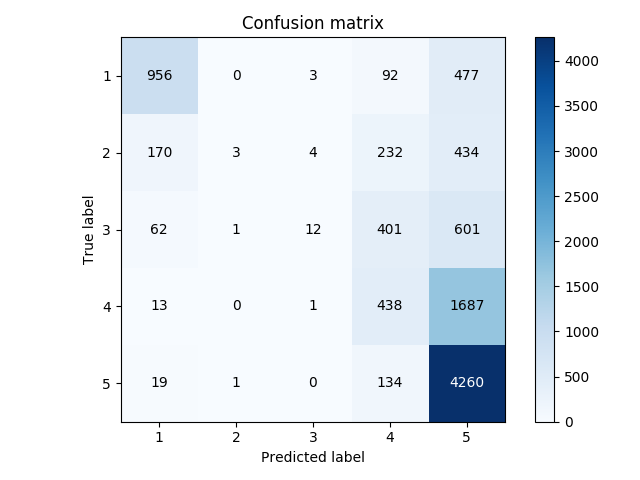
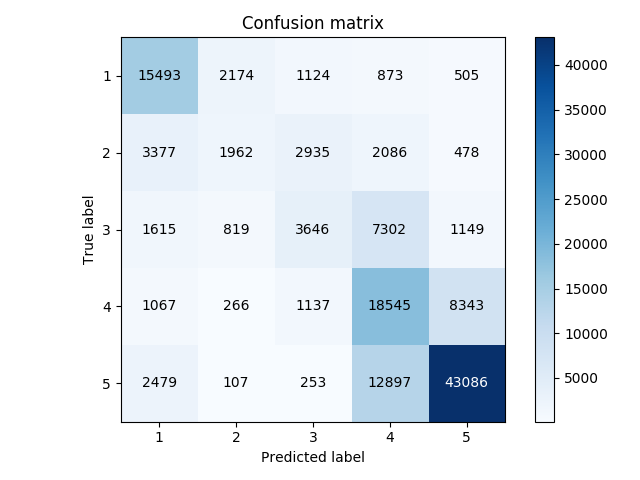
bugs fixed in Naive Bayes

diff --git a/Naive Bayes/Naive_Bayes.py b/Naive Bayes/Naive_Bayes.py
@@ -11,16 +11,17 @@ matplotlib.use('Agg')
 import numpy as np
 import matplotlib.pyplot as plt
 import math
+from random import randint
 from matplotlib import cm
 from utils import *
 from sklearn import svm, datasets
 from sklearn.model_selection import train_test_split
 from sklearn.metrics import confusion_matrix
 from sklearn.utils.multiclass import unique_labels
-from sklearn.metrics import classification_report
+from sklearn.metrics import f1_score
 
 # Hyper parameters
-tokenize_type = 3
+tokenize_type = 2
 
 # Global constants
 categories = 5
@@ -30,6 +31,7 @@ Denom = [0.0, 0.0, 0.0, 0.0, 0.0]
 # Parameters
 Phi = [0, 0, 0, 0, 0] # For y : 1 to 5
 Theta = np.empty((dicts, categories)) # 
+majority_class = 0
 
 def bigrams(lst):
     result = []
@@ -74,15 +76,17 @@ def generate_vocab():
                 output.append(word)
                 seen.add(word)
         counter+= 1
-        if counter == limit: break
+        # if counter == limit: break
     return (dict(zip(output, np.arange(0, len(output), 1))), inputs)
 
 def train(vocab, inputs):
     # Initialization
+    global majority_class
     Phi = [0.0, 0.0, 0.0, 0.0, 0.0] # For y : 1 to 5
     Theta = np.empty((dicts, categories)) # 
     Denom = [0.0, 0.0, 0.0, 0.0, 0.0]
     M = 0 # Number of training examples
+    counts = np.zeros(5)
     for i in range(dicts):
 	    for j in range(categories):
 		    Theta[i][j] = 0
@@ -90,11 +94,12 @@ def train(vocab, inputs):
     for inp in inputs:
         M += 1
         c = int(inp["stars"])
-        Phi[c-1] += 1
+        Phi[c-1] += 1; counts[c-1] += 1
         for word in tokenize(inp["text"]):
             k = vocab[word]
             Theta[k][c-1] += 1            
             Denom[c-1] += 1
+    majority_class = counts.argmax() + 1
     
     for i in range(categories):
         Phi[i] = np.log2(Phi[i]) #(Phi[i]+1)/(M+5)
@@ -106,7 +111,7 @@ def train(vocab, inputs):
 
 def theta_k_c(token, category):
     try: return Theta[vocab[token]][category]
-    except: return 1.0 / (dicts + Denom[category])
+    except: return np.log2(1.0 / (dicts + Denom[category]))
     
 def classify(text):
     probs = np.zeros(5)
@@ -117,18 +122,19 @@ def classify(text):
         probs[c] += Phi[c]
     return probs.argmax() + 1
 
-def test(filename, Phi, Theta):
+def test(filename, Phi, Theta, option=1):
     correct = 0
     count = 0
     actual_ys = []; predicted_ys = []
+    if tokenize_type == 3: correct += 500
     for view in json_reader(filename):
         count += 1
         actual_y = int(view["stars"])
-        precited_y = classify(view["text"])
-        actual_ys.append(actual_y); predicted_ys.append(precited_y)
-        if(actual_y == precited_y):
+        predicted_y = classify(view["text"]) if option == 1 else (randint(1, 5) if option == 2 else majority_class)
+        actual_ys.append(actual_y); predicted_ys.append(predicted_y)
+        if(actual_y == predicted_y):
             correct += 1
-        if count > 10000: break
+        # if count > 10000: break
     return float(correct)/float(count), actual_ys, predicted_ys
 
 def plot_confusion_matrix(cm, classes):
@@ -154,19 +160,19 @@ dicts = len(vocab)
 
 Phi, Theta, Denom = train(vocab, inputs)
 
-print(Phi)
-print(Theta)
-print(Denom)
+option = 1 # 1 = trained model, 2 = random, 3 = majority
 
-print ("Accuracy = "), 
-accuracy, actual_ys, predicted_ys = test("test.json", Phi, Theta)
-print (accuracy)
+print ("Test Accuracy = "), 
+accuracy, actual_ys, predicted_ys = test("test.json", Phi, Theta, option)
+print (accuracy*100)
+
+# print ("Training Accuracy = "), 
+# accuracy, actual_ys, predicted_ys = test("train.json", Phi, Theta)
+# print (accuracy)
 
 cm = confusion_matrix(actual_ys, predicted_ys)
-
-print(cm)
 
 plot_confusion_matrix(cm, [1, 2, 3, 4, 5])
 plt.savefig("Confusion-Matrix")
 
-print(classification_report(actual_ys, predicted_ys))
+print "Macro F1 Score : ", f1_score(actual_ys, predicted_ys, average='macro')
